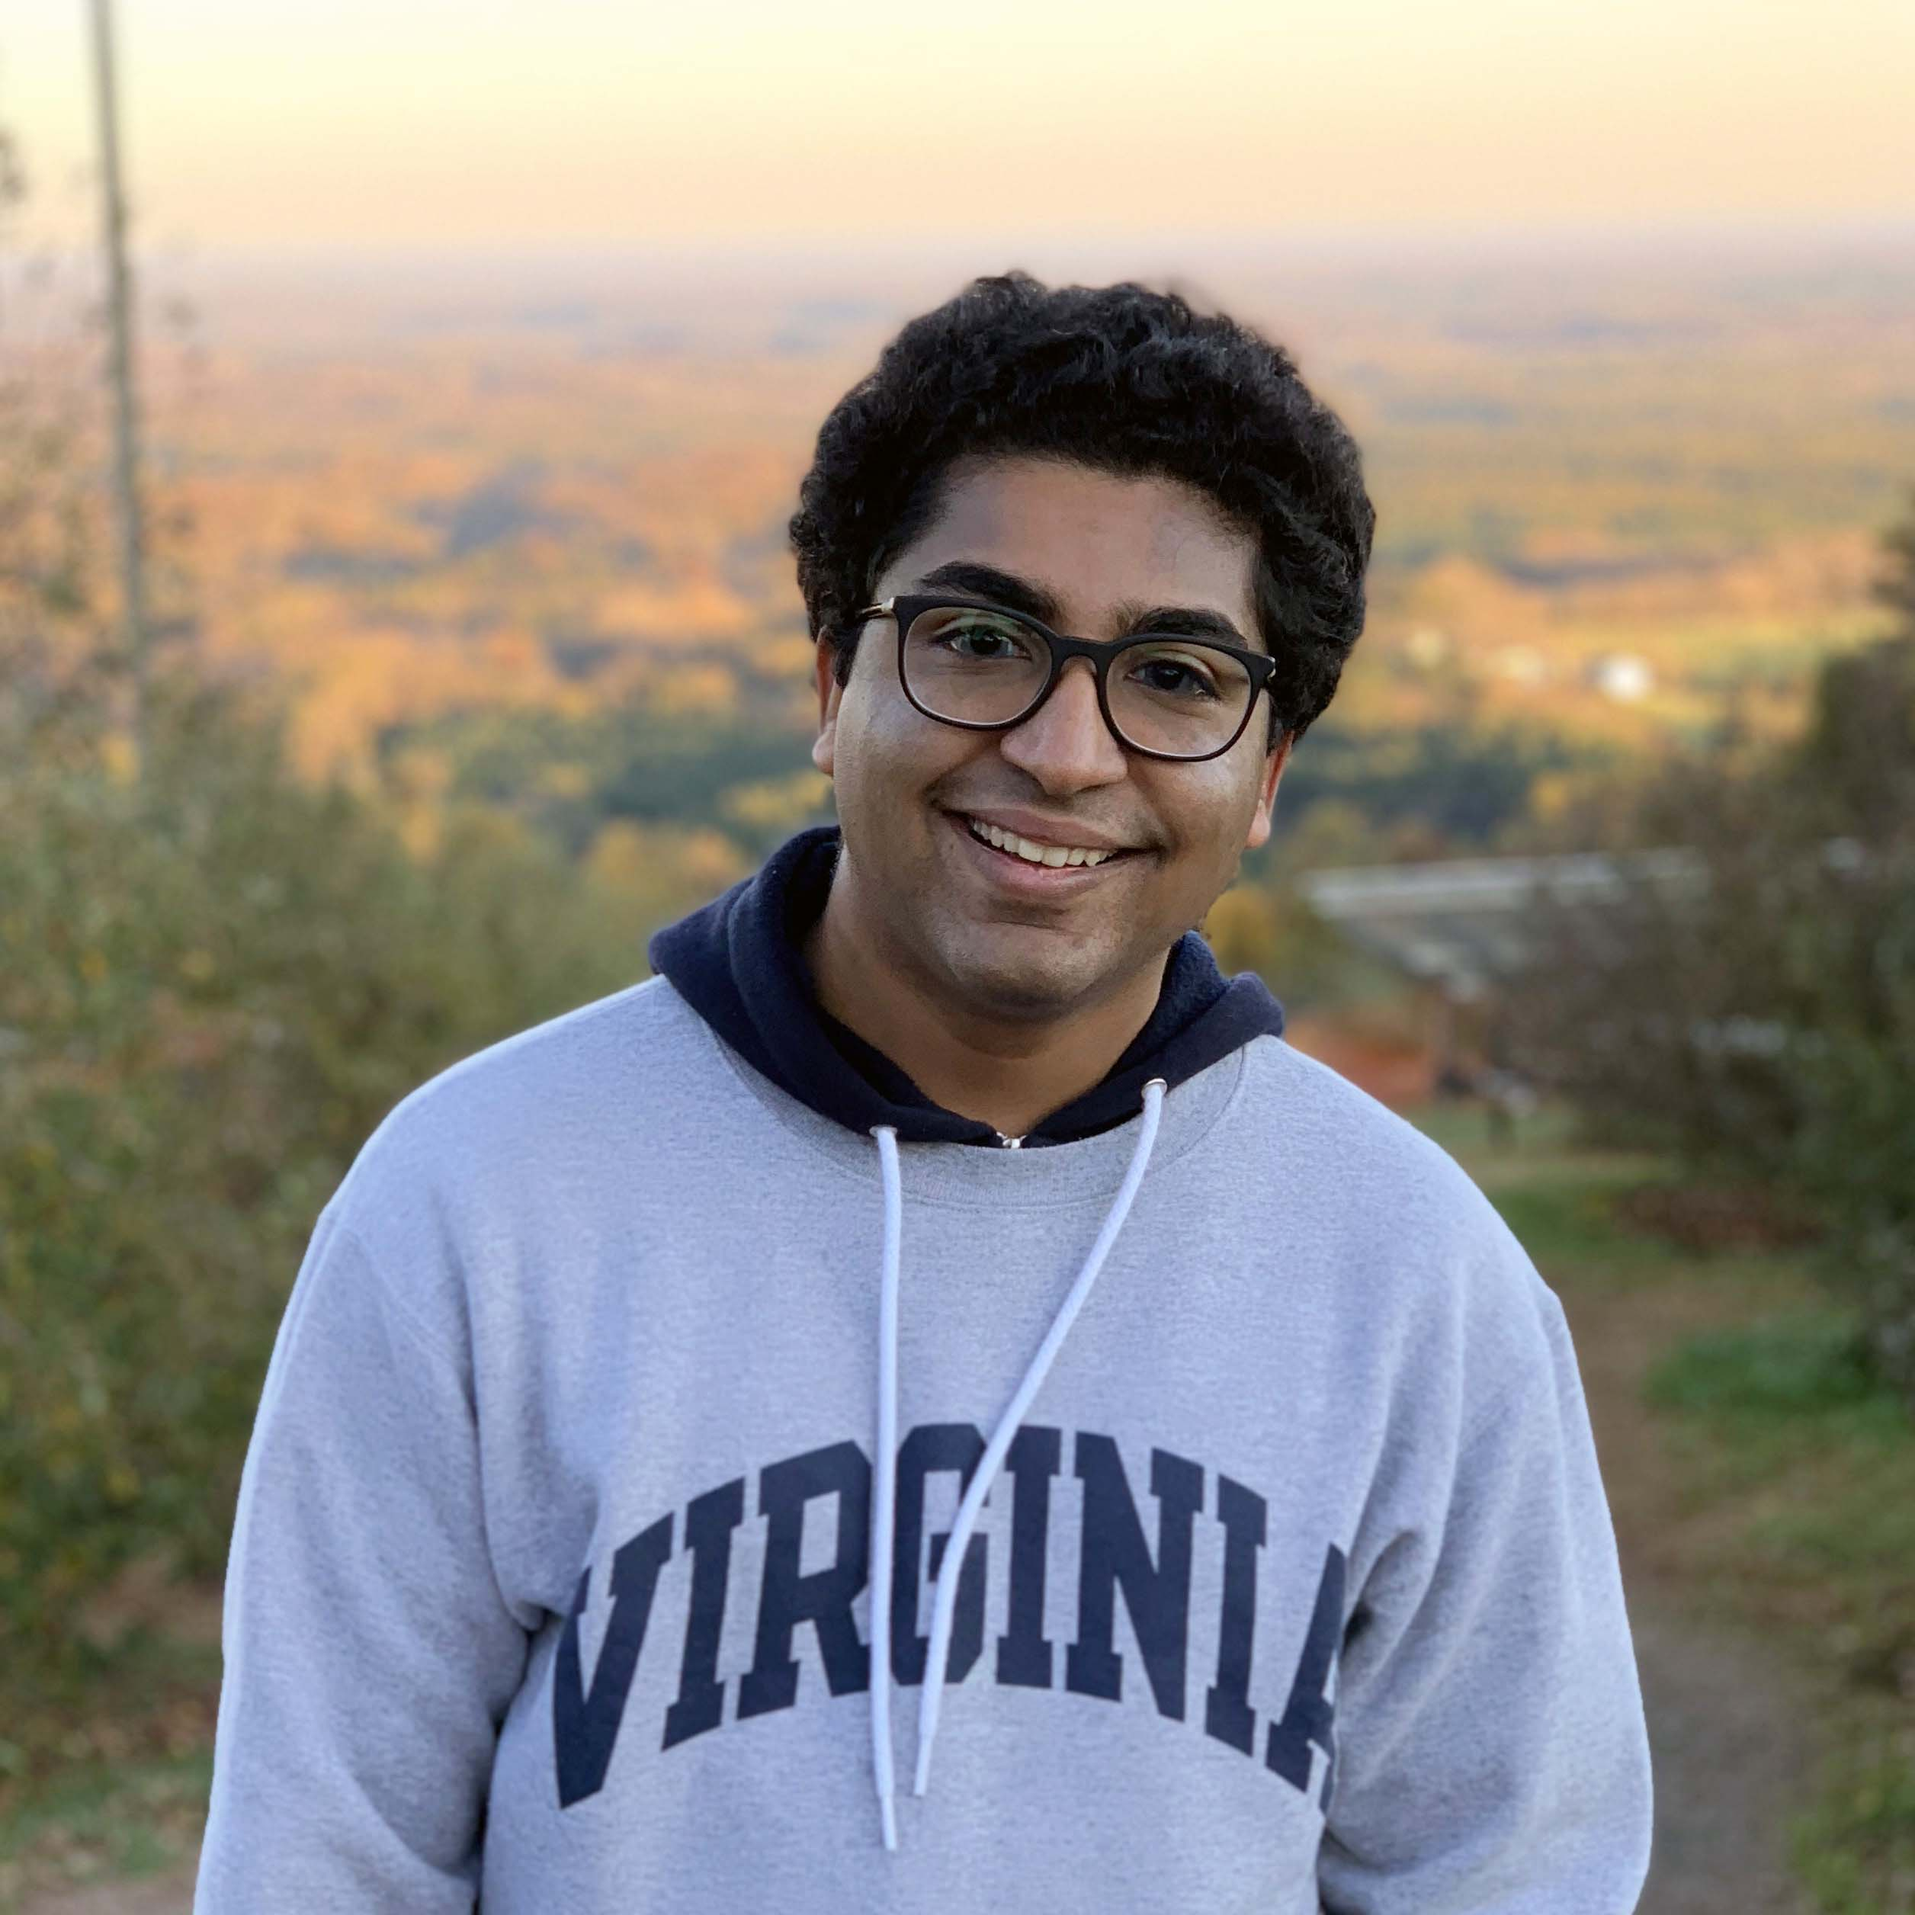
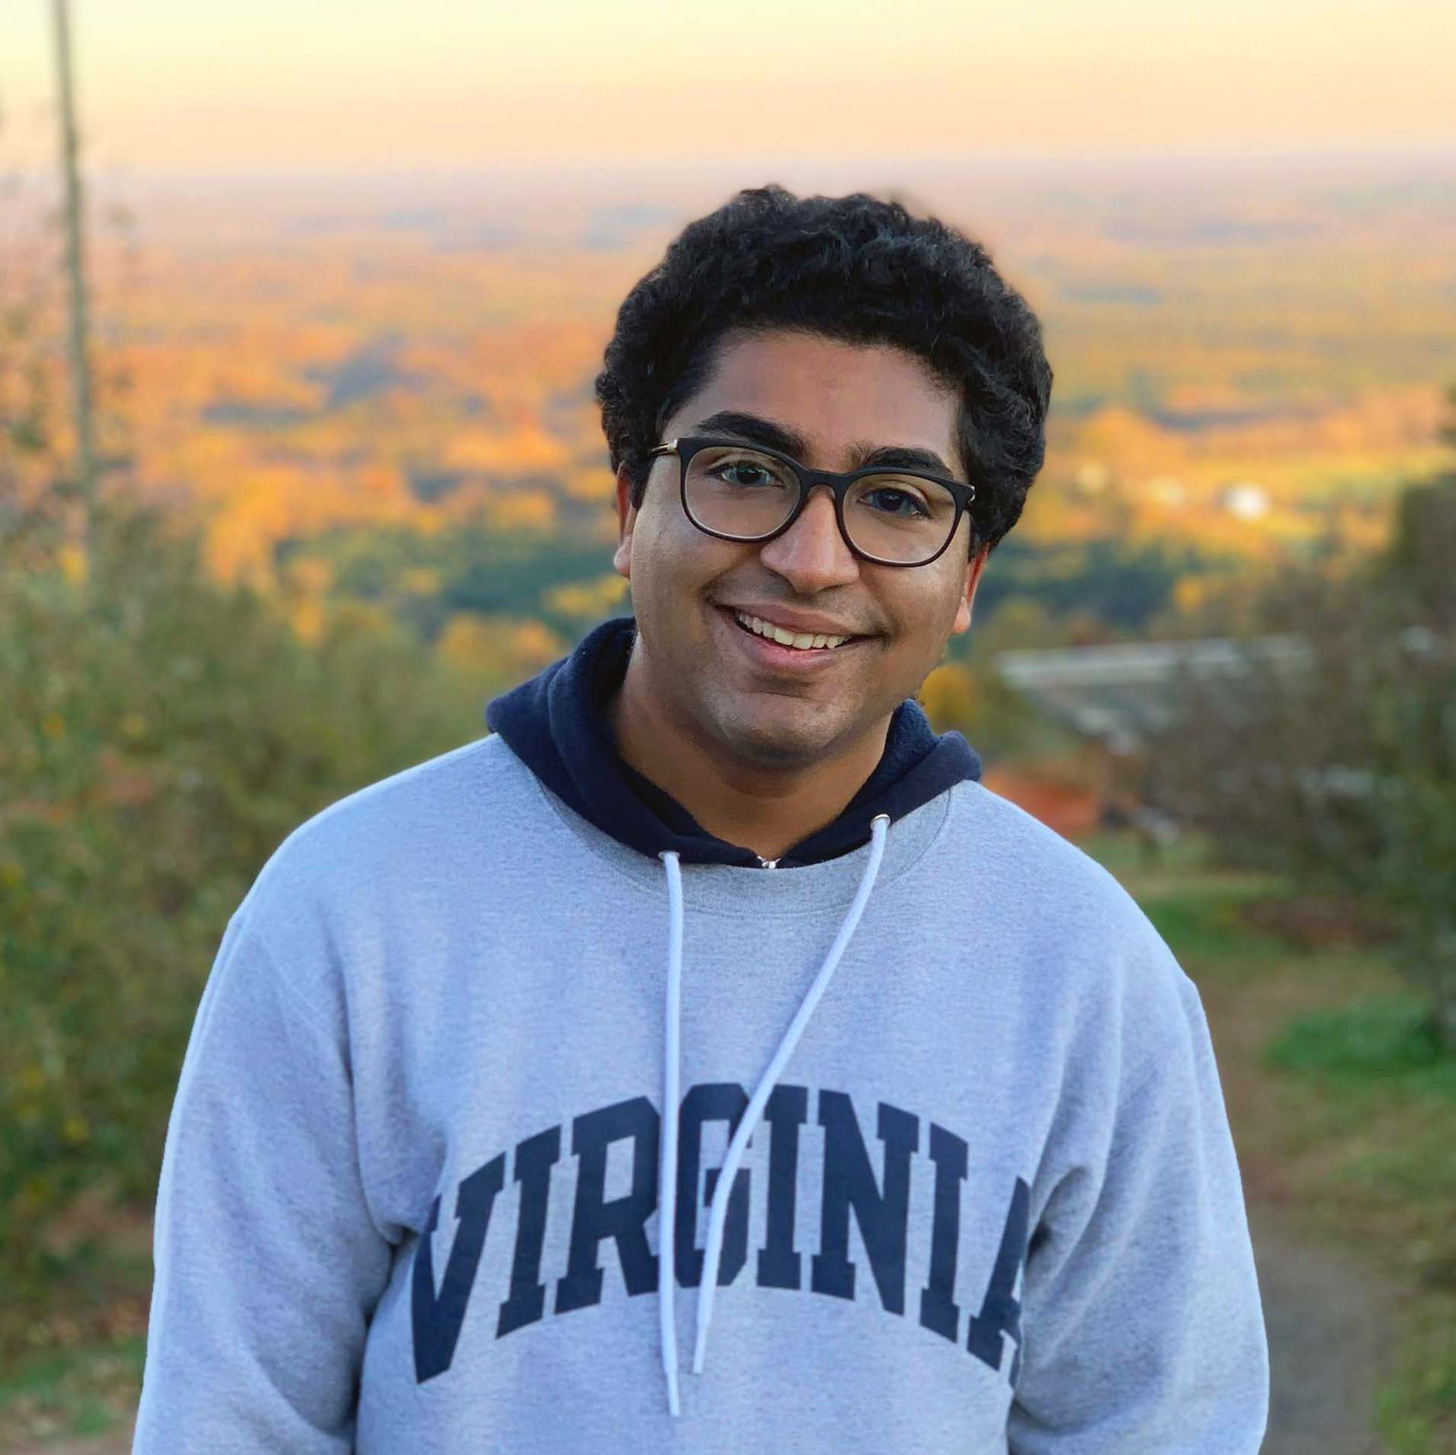
cleaner ui

diff --git a/css/main.css b/css/main.css
@@ -8,6 +8,7 @@ body {
     background-attachment: fixed;
     background-size: cover;
     height: 100vh;
+ 	background-position: top;
  }
 
 .fadeInLoad {
@@ -26,7 +27,7 @@ body {
 .name {
 	font-size: 2em;
 	font-weight: bold;
-	margin-top: 20px;
+	margin-top: 35px;
 	margin-bottom: 5px;
 }
 
@@ -37,19 +38,32 @@ body {
 }
 
 .card {
-    box-shadow: 0 4px 8px 0 rgba(0,0,0,0.2);
+    /*box-shadow: 0 4px 8px 0 rgba(0,0,0,0.25);*/
     transition: 0.3s;
     width: 400px;
     /*height: 500px;*/
 	padding: 15px;
     padding-bottom: 50px;
-    background-color: rgba(255,255,255,0.85);
-	overflow: auto;
+    background-color: rgba(255,255,255,0.8);
+	overflow: hidden;
+	position: relative;
+    border-radius: 1%;
+}
+
+
+.profile {
+	width: 80%;
+	/*height: 60%;*/
+    border-radius: 50%;
+    display: block;
+    margin: 40px auto 0;
+  	box-shadow: 0 4px 8px 0 rgba(0, 0, 0, 0.2), 0 6px 20px 0 rgba(0, 0, 0, 0.19);
+	transition: 0.4s;
 
 }
 
-.card:hover {
-    box-shadow: 0 8px 16px 0 rgba(0,0,0,0.2);
+.card:hover .profile {
+  	box-shadow: 0 6px 16px 0 rgba(0, 0, 0, 0.2), 0 12px 25px 0 rgba(0, 0, 0, 0.19);
 }
 
 .container {
@@ -109,13 +123,6 @@ body {
 	margin-top: 16px;
 }
 
-.profile {
-	width: 80%;
-	/*height: 60%;*/
-    border-radius: 50%;
-    display: block;
-    margin: 40px auto 0;
-}
 
 a { 
 	color: inherit; 
@@ -169,7 +176,7 @@ a {
 
 	.name {
 		font-size: 1.75em;
-		margin-top: 20px;
+		margin-top: 25px;
 		margin-bottom: 5px;
 	}
 
@@ -198,7 +205,7 @@ a {
 
 	.name {
 		font-size: 1.7em;
-		margin-top: 20px;
+		margin-top: 25px;
 		margin-bottom: 5px;
 	}
 
@@ -228,7 +235,7 @@ a {
 
 	.name {
 		font-size: 1.5em;
-		margin-top: 20px;
+		margin-top: 25px;
 		margin-bottom: 5px;
 	}
 

diff --git a/index.html b/index.html
@@ -34,15 +34,15 @@
                 </a>
                 <a href="http://linkedin.com/in/abeyk" class="btn tooltip"> 
                     <i class="fa fa-linkedin fa-2x"></i> 
-                    <span class="tooltiptext">Linkedin.com/in/AbeyK/</span>
+                    <span class="tooltiptext">linkedin.com/in/AbeyK/</span>
                 </a>
                 <a href="http://github.com/abeyk" class="btn tooltip"> 
                     <i class="fa fa-github-alt fa-2x"></i> 
-                    <span class="tooltiptext">Github.com/AbeyK</span>
+                    <span class="tooltiptext">github.com/AbeyK</span>
                 </a>
-                <a href="resume/AbeyKoolipurackal.pdf" class="btn tooltip" target="_blank"> 
+                <a href="http://linkedin.com/in/abeyk" class="btn tooltip" target="_blank"> 
                     <i class="fa fa-file-text-o fa-2x"></i> 
-                    <span class="tooltiptext">Résumé</span>
+                    <span class="tooltiptext">Resume</span>
                 </a>
             </div>
         </div>
